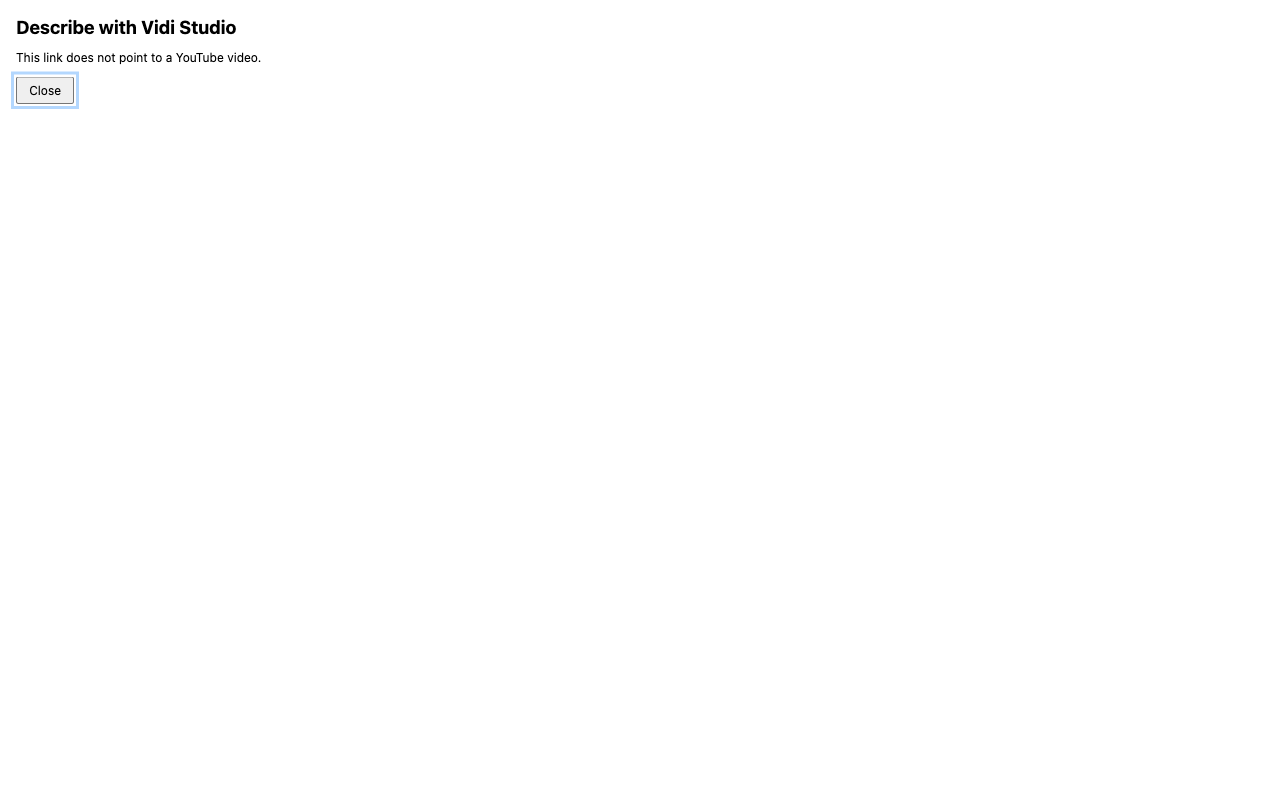
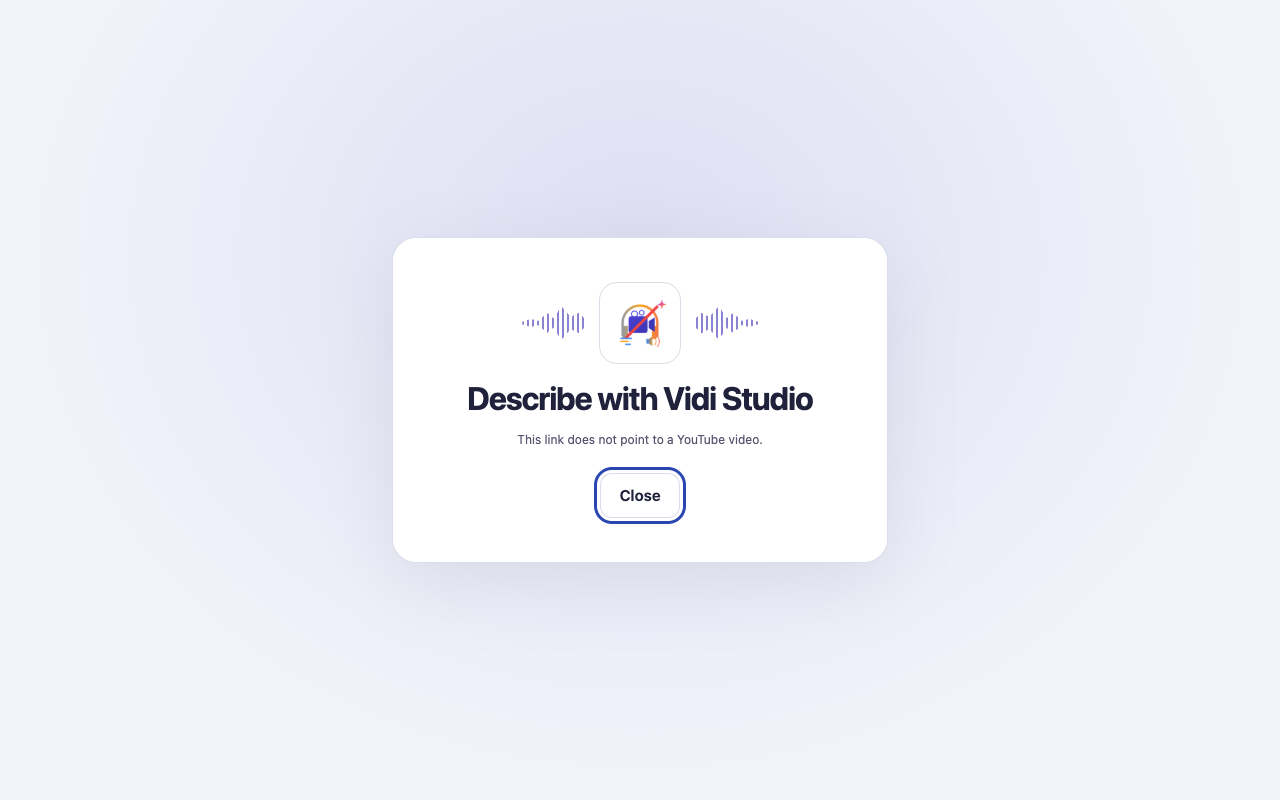
Updated the Extentions

diff --git a/docs/help/projects.html b/docs/help/projects.html
@@ -22,7 +22,7 @@
 <p>The import dialog includes the same Language picker, initially set to the project language. It assigns a label and preserves the supplied text; importing does not translate it. Auto imports are stored in Auto. Importing another result in the same language creates an alternative for review with Keep Both, Replace Selected, and Discard New. The Mac and Windows import dialogs use this same review workflow without an upfront replacement checkbox; validation still runs before any imported result is saved. Both dialogs group Language, Text assets and AD audio separately (with Original audio for YouTube projects). The Language label and dropdown share one row. AD transcript type and Audio type choices appear only after choosing the corresponding file. Audio type offers AD narration audio only and Full AD mix; the latter uses the complete described soundtrack directly. Combine describes its output without assuming English. The dialog shows the project name; detailed format and workflow guidance stays in Help. Imported AD transcripts retain their related source information; imported AD audio and per-segment narration retain their own files. Existing exports remain available.</p>
 
 <h2>Share or open a video in VidiStudio</h2><p>VidiStudio integrates directly into both macOS Finder and Windows File Explorer, allowing you to open video files and create new projects directly from your operating system without opening the app first:</p><ul><li><strong>On macOS:</strong> In Finder, right-click one local video and choose <strong>Describe with Vidi Studio</strong> (enable Vidi Studio under System Settings &gt; General &gt; Login Items &amp; Extensions &gt; Finder Extensions if the item is not shown). You can also open Share and choose VidiStudio, or choose Open With &gt; VidiStudio. In Safari or another browser that supplies the current page URL to macOS sharing, open a supported YouTube video page, choose Share, and choose VidiStudio. If VidiStudio is missing from Share, enable it under Sharing extensions in the same System Settings area.</li><li><strong>On Windows:</strong> In File Explorer, right-click any video file (.mp4, .mov, .m4v, .mkv, .avi, .webm, .wmv) and select <strong>Describe with Vidi Studio</strong> (located under Show more options / Shift+F10 in Windows 11, or directly on the classic context menu) or choose <strong>Open with &gt; Vidi Studio</strong>. You can also share videos to Vidi Studio through the Windows Share flyout. If Explorer integration is not yet active after installation, open Vidi Studio Settings &gt; Storage and tools and click <strong>Register File Explorer context menu</strong>, or run <code>script/register-context-menu.ps1</code>.</li></ul><p>On both platforms, opening or sharing a video immediately creates a new project and launches its editor. If you open or share a video that has already been imported into an existing project, VidiStudio automatically brings that existing project window to the foreground instead of creating a duplicate.</p>
-<p><strong>Describe with Vidi Studio</strong> is available in the Chrome and Edge extension toolbar on Mac and Windows, and in Safari on Mac. Select it on a YouTube video page, or open the context menu on a link on any website and choose <strong>Describe with Vidi Studio</strong>. The context menu uses the clicked link, even on YouTube. A page context menu uses the page URL. Allow the browser to open VidiStudio if prompted. VidiStudio shows a spinning progress indicator and announces “Opening YouTube project…” while it finds or creates the project and opens the editor. If the extension displays a <strong>Describe with Vidi Studio</strong> link, activate it to open the editor. Choose Close or press Escape to dismiss the extension view. If Safari leaves an untitled tab after you cancel its prompt, press Command-W to return to the original page.</p>
+<p><strong>Describe with Vidi Studio</strong> is available in the Chrome and Edge extension toolbar on Mac and Windows, and in Safari on Mac. Select it on a YouTube video page, or open the context menu on a link on any website and choose <strong>Describe with Vidi Studio</strong>. The context menu uses the clicked link, even on YouTube. A page context menu uses the page URL. The extension shows the VidiStudio logo, the YouTube thumbnail beside the video title, and its short link. If YouTube cannot supply the title, the link and both actions remain available. Choose <strong>Describe with Vidi Studio</strong> to continue, then allow the browser to open the desktop app if prompted. Choose <strong>Cancel</strong> or press Escape to dismiss the extension before opening the app. VidiStudio shows a spinning progress indicator and announces “Opening YouTube project…” while it finds or creates the project and opens the editor. For an unsupported link, choose <strong>Close</strong> or press Escape to dismiss the message. If Safari leaves an untitled tab after you cancel its prompt, press Command-W to return to the original page.</p>
 <p>Use a watch, short link, Shorts, live video, or embed URL for one YouTube video. A watch URL can include a timestamp or playlist. Other links, including channels, playlists without a selected video, and local files, show “This link does not point to a YouTube video.” The extension checks the URL on your device and sends only the video link to the installed desktop app. VidiStudio checks video availability during import. Use Finder or File Explorer to open a local video.</p>
 <p>To install the automatically updating Chrome or Edge extension, open <code>chrome://extensions</code> or <code>edge://extensions</code>, enable Developer mode and choose <strong>Load unpacked</strong>. On Mac, choose <code>/Applications/VidiStudio.app/Contents/Resources/BrowserExtension</code> (press Command-Shift-G in the folder picker to enter the path). On Windows, start Vidi Studio once, then choose <code>%LOCALAPPDATA%&#92;VidiStudio&#92;BrowserExtension</code>. If you previously loaded a different folder, remove the old copy after enabling the new one. Ordinary VidiStudio updates keep the installed extension running. When an update includes a new extension version, it becomes available on installation on Mac and the first app launch on Windows. Chrome and Edge check the local version about once a minute while running and load the new version automatically. On Mac, enable <strong>Describe with Vidi Studio</strong> under Safari &gt; Settings &gt; Extensions. Safari’s <strong>Share &gt; VidiStudio</strong> is also available through macOS Sharing extensions.</p>
 <p>On macOS, the Share and Finder extensions update with VidiStudio. If sharing after an update shows a warning about previously opened versions, see <a href="troubleshooting.html#sharing-after-update">macOS sharing after an update</a>.</p>

diff --git a/BrowserExtension/open.css b/BrowserExtension/open.css
@@ -1,8 +1,89 @@
-:root { color-scheme: light dark; font: 100% system-ui, sans-serif; }
-body { min-width: 16rem; margin: 1rem; }
-main { max-width: 30rem; }
-h1 { font-size: 1.15rem; }
-button, a { font: inherit; }
-button { padding: .3rem .7rem; }
-a { margin-inline-end: .8rem; }
-:focus-visible { outline: 3px solid Highlight; outline-offset: 2px; }
+:root {
+  color-scheme: light dark;
+  font: 100%/1.5 Inter, "Segoe UI", system-ui, sans-serif;
+  --page: #f1f3fa;
+  --surface: #fff;
+  --ink: #20213b;
+  --muted: #54566f;
+  --border: #d9dce9;
+  --wash: #f4f4fb;
+  --accent: #4c40ba;
+  --focus: #2a46b1;
+  --on-accent: #fff;
+}
+@media (prefers-color-scheme: dark) {
+  :root {
+    --page: #121322;
+    --surface: #202134;
+    --ink: #f5f4ff;
+    --muted: #c3c2d7;
+    --border: #45465d;
+    --wash: #292a40;
+    --accent: #c5baff;
+    --focus: #d6d1ff;
+    --on-accent: #211945;
+  }
+}
+* { box-sizing: border-box; }
+[hidden] { display: none !important; }
+body {
+  margin: 0; min-height: 100vh; display: grid; place-items: center; padding: 1.5rem;
+  background: radial-gradient(ellipse at 50% 32%, color-mix(in srgb, var(--accent) 12%, var(--page)), var(--page) 67%);
+  color: var(--ink);
+}
+main {
+  width: min(100%, 31rem); padding: clamp(1.35rem, 5vw, 2.75rem);
+  background: var(--surface); border: 1px solid var(--border); border-radius: 1.5rem;
+  box-shadow: 0 1.3rem 4.5rem #13182815; text-align: center;
+}
+.art { display: flex; align-items: center; justify-content: center; gap: .8rem; margin-bottom: 1rem; }
+.art img { flex: none; border-radius: 1.15rem; background: #fff; padding: .25rem; border: 1px solid #dddde8; }
+.wave {
+  width: 4rem; height: 2.1rem; opacity: .65;
+  background: repeating-linear-gradient(90deg, var(--accent) 0 2px, transparent 2px 5px);
+  clip-path: polygon(0 46%, 14% 38%, 25% 44%, 39% 20%, 49% 36%, 61% 0, 76% 32%, 89% 19%, 100% 42%, 100% 58%, 89% 81%, 76% 68%, 61% 100%, 49% 64%, 39% 80%, 25% 56%, 14% 62%, 0 54%);
+}
+.wave:last-child { transform: scaleX(-1); }
+h1 { font-size: clamp(1.5rem, 4vw, 2rem); line-height: 1.15; letter-spacing: -.035em; margin: 0; }
+p { color: var(--muted); margin: .85rem 0 0; }
+.video {
+  display: flex; align-items: center; justify-content: center; gap: .8rem;
+  margin-top: 1.45rem; padding: .85rem; background: var(--wash); border-radius: .85rem; text-align: start;
+}
+.poster { flex: 0 0 29%; max-width: 7.5rem; aspect-ratio: 16 / 9; display: grid; place-items: center; }
+#thumbnail { width: 100%; height: 100%; object-fit: cover; border-radius: .45rem; }
+#thumbnail:not([hidden]) + .play { display: none; }
+.video-info { min-width: 0; }
+.video-label { font-size: .82rem; color: var(--muted); }
+.video strong, #source { display: block; }
+#video-title { margin: .15rem 0; font-size: 1.03rem; line-height: 1.35; overflow-wrap: anywhere; }
+#source { font-size: .86rem; color: var(--muted); overflow-wrap: anywhere; }
+.play { flex: none; display: grid; place-items: center; width: 2rem; height: 1.45rem; border-radius: .45rem; background: #c82c35; }
+.play::after { content: ""; border-block: .3rem solid transparent; border-inline-start: .49rem solid white; }
+.note { font-size: .9rem; margin: .85rem .25rem 0; }
+#error:empty { margin: 0; }
+.actions { display: flex; justify-content: center; flex-wrap: wrap; gap: .65rem; margin-top: 1.55rem; }
+.actions > * {
+  display: inline-flex; justify-content: center; align-items: center; min-height: 2.8rem; padding: .6rem 1.15rem;
+  font: inherit; font-weight: 650; font-size: .95rem; line-height: 1.3; border-radius: .75rem;
+  border: 1px solid var(--border); background: var(--surface); color: var(--ink); text-decoration: none; cursor: pointer;
+}
+#launch { background: var(--accent); color: var(--on-accent); border-color: var(--accent); }
+.actions > :hover { box-shadow: inset 0 0 0 2px currentColor; }
+:focus-visible { outline: 3px solid var(--focus); outline-offset: 3px; }
+.popup { width: 22rem; }
+.popup body { min-height: 0; padding: 0; }
+.popup main { padding: 1.4rem; border: 0; border-radius: 0; box-shadow: none; }
+.popup .actions { gap: .55rem; }
+@media (forced-colors: active) {
+  #launch, .actions button { border: 1px solid ButtonText; }
+  :focus-visible { outline-color: Highlight; }
+}
+
+@media (max-height: 620px) {
+  body { padding: .85rem; }
+  main { padding-block: 1.35rem; }
+  .art { margin-bottom: .7rem; }
+  .art img { width: 4rem; height: 4rem; }
+  .video, .actions { margin-top: 1rem; }
+}

diff --git a/BrowserExtension/open.js b/BrowserExtension/open.js
@@ -1,4 +1,5 @@
 const fromMenu = location.hash.length > 0;
+if (!fromMenu) document.documentElement.classList.add("popup");
 const closeButton = document.getElementById("close");
 async function dismiss() {
   if (fromMenu) {
@@ -15,6 +16,28 @@ document.addEventListener("keydown", event => {
     dismiss();
   }
 });
+
+async function showVideoTitle(source) {
+  const title = document.getElementById("video-title");
+  const endpoint = new URL("https://www.youtube.com/oembed");
+  endpoint.searchParams.set("url", source);
+  endpoint.searchParams.set("format", "json");
+  try {
+    const response = await fetch(endpoint, {
+      credentials: "omit", referrerPolicy: "no-referrer", signal: AbortSignal.timeout(5000)
+    });
+    if (response.ok) {
+      const metadata = await response.json();
+      if (typeof metadata.title === "string" && metadata.title.trim()) {
+        title.textContent = metadata.title.trim();
+        return;
+      }
+    }
+  } catch {
+    // Project opening remains available when YouTube cannot supply a title.
+  }
+  title.textContent = "Video title unavailable";
+}
 
 async function openVideo() {
   let id;
@@ -33,10 +56,14 @@ async function openVideo() {
   const link = document.getElementById("launch");
   const source = "https://www.youtube.com/watch?v=" + id;
   link.href = "vidistudio://share?kind=youtube&source=" + encodeURIComponent(source);
+  document.getElementById("source").textContent = "youtu.be/" + id;
+  document.getElementById("details").hidden = false;
+  closeButton.textContent = "Cancel";
   link.hidden = false;
   link.focus();
-  // A real link remains available when the browser requires a fresh user gesture.
-  // Give the browser a chance to paint the action before the external-app prompt.
-  requestAnimationFrame(() => requestAnimationFrame(() => link.click()));
+  const thumbnail = document.getElementById("thumbnail");
+  thumbnail.addEventListener("load", () => { thumbnail.hidden = false; }, {once: true});
+  thumbnail.src = "https://i.ytimg.com/vi/" + id + "/mqdefault.jpg";
+  await showVideoTitle(source);
 }
 openVideo();

diff --git a/BrowserExtension/open.html b/BrowserExtension/open.html
@@ -4,14 +4,42 @@
   <meta charset="utf-8">
   <meta name="viewport" content="width=device-width, initial-scale=1">
   <title>Describe with Vidi Studio</title>
+  <link rel="icon" href="icons/32.png">
   <link rel="stylesheet" href="open.css">
   <script src="youtube.js" defer></script>
   <script src="open.js" defer></script>
 </head>
-<body><main>
-  <h1>Describe with Vidi Studio</h1>
-  <p id="error" role="alert" aria-atomic="true"></p>
-  <a id="launch" hidden>Describe with Vidi Studio</a>
-  <button type="button" id="close">Close</button>
-</main></body>
+<body>
+  <main aria-labelledby="title">
+    <header>
+      <div class="art" aria-hidden="true">
+        <span class="wave"></span>
+        <img src="icons/128.png" width="82" height="82" alt="">
+        <span class="wave"></span>
+      </div>
+      <h1 id="title">Describe with Vidi Studio</h1>
+    </header>
+    <section id="details" aria-label="Selected video" hidden>
+      <p>Open this video in the desktop app to work on its transcript, captions, or audio description.</p>
+      <div class="video">
+        <div class="poster">
+          <img id="thumbnail" alt="YouTube video thumbnail" width="320" height="180"
+               crossorigin="anonymous" referrerpolicy="no-referrer" hidden>
+          <span class="play" aria-hidden="true"></span>
+        </div>
+        <div class="video-info">
+          <span class="video-label">YouTube video</span>
+          <strong id="video-title" dir="auto" aria-live="polite">Loading video title…</strong>
+          <span id="source" dir="ltr"></span>
+        </div>
+      </div>
+      <p class="note">VidiStudio opens the existing project for this video or creates a new one.</p>
+    </section>
+    <p id="error" role="alert" aria-atomic="true"></p>
+    <div class="actions">
+      <a id="launch" hidden>Describe with Vidi Studio</a>
+      <button type="button" id="close">Close</button>
+    </div>
+  </main>
+</body>
 </html>

diff --git a/docs/help/privacy.html b/docs/help/privacy.html
@@ -27,4 +27,4 @@
 
 <h2 id="elevenlabs-privacy">ElevenLabs narration</h2><p>Generating ElevenLabs narration sends the selected description text, model, voice, language and supported adjustments to ElevenLabs using your own key and account allowance. Account terms and retention policies apply. Keys remain in the operating system credential store, outside project folders and settings JSON. Plan information and voice catalogs are read from ElevenLabs; public voice additions occur only after Add &amp; Select confirmation. Supplied demos download without your API key in the recording request and never synthesize speech. Catalogs and demos are cached locally outside projects and separated by credential. Deleting a key clears its local cache, not the remote account or voices previously added there. Summary playback uses only local speech engines.</p>
 
-<h2 id="browser-sharing">Browser sharing</h2><p>Describe with Vidi Studio reads the current page or the link you choose when you invoke it. It checks the URL locally and sends the YouTube video link to the installed desktop app. The extension stores no browsing history and sends no analytics. The desktop-managed Chrome and Edge edition checks its local extension files for updates.</p>
+<h2 id="browser-sharing">Browser sharing</h2><p>Describe with Vidi Studio reads the current page or the link you choose when you invoke it. It checks the URL locally and sends the YouTube video link to the installed desktop app. For a valid video, the extension requests its public title and thumbnail from YouTube using the selected video ID, without cookies or the referring page address. The extension stores no browsing history and sends no analytics. The desktop-managed Chrome and Edge edition checks its local extension files for updates.</p>

diff --git a/PROGRESS.md b/PROGRESS.md
@@ -3816,3 +3816,21 @@ Both desktop apps display and announce “Opening YouTube project…” when a b
 On the final installed Mac build, an on-screen window probe observed the progress panel during a cold protocol launch that created “Me at the zoo” and again during an immediate reopen with that editor frontmost. Both runs cleared the indicator with the editor visible and the library contained one matching project. The cold-launch test exposed an initial reachability race. The import now waits for the first YouTube reachability result; a native regression covers both a completed initial check and an offline result. The Windows accessibility probe confirmed the same two indicator transitions for “GANGNAM STYLE”. These tests also verified the status disappears; live screen-reader speech remains untested.
 
 Installed Mac 1.0.346 (build 346) and Windows ARM64 1.0.346.0. Mac signature continuity, canonical entitlements and single PlugInKit registrations passed for Safari, Share and Finder, team LLVWNNUV26. Spotlight and LaunchServices showed /Applications/VidiStudio.app. Windows reported one registered package and one runnable app. Packaged Windows GallerySettingsOnly and DialogsOnly passed. Shared browser, Swift, Safari Share plain-text and Windows fixtures passed (30 URL cases). Mac and Windows menu/UI parity checks passed, as did the packaged Mac engine pipeline. Canonical desktop Help was regenerated and synchronized. Local website lint, production build, guide search and navigation passed. Website changes remain unpublished. No browser store submission.
+
+## 2026-11-17 — Describe with Vidi Studio confirmation and YouTube titles (1.0.348)
+
+The shared extension page and toolbar popup display the application logo, the selected video’s title and short link, and a centered Describe with Vidi Studio action and Cancel. The primary action retains the original descriptive wording and sends the canonical URL only when activated. The existing unsupported-link message, Close and Escape remain accessible. Valid links request only the public video title from YouTube oEmbed with credentials and referrer omitted. A failed or offline title request leaves both actions available. The manifest adds no permissions.
+
+The regular Mac Chrome and Edge profiles, enabled Safari toolbar, and regular Windows Chrome and Edge profiles all displayed the actual public title “How we organised India's First Inclusive Dandiya Night | Dil Se Abled” for ebYDpoKxmEA. Native accessibility inspection verified the link, short URL, full title and Cancel. Additional Chromium checks covered actual rendering in light/dark, the logo, centering, a 320-pixel viewport, canonical protocol URL and invalid feedback. The invalid-link store screenshot was refreshed. Live VoiceOver and NVDA speech were not tested for this release.
+
+Both desktops and the independent browser release are 1.0.348. The signed Mac app, Safari, native Share and Finder bundles passed signing continuity and single PlugInKit registration checks (build 348, team LLVWNNUV26). Spotlight and LaunchServices each showed only /Applications/VidiStudio.app. Windows ARM64 1.0.348.0 supplies the same update folder to its existing Chromium profiles. Checked the two stable store ZIPs and the Windows embedded ZIP against the shared UI resources. Packaged Mac engine regression, 30 shared URL fixtures, Safari Share provider, browser action tests, menu/UI parity, Help generation, website lint/build and guide navigation passed. Both desktop Help books and the online guide/privacy sources describe title retrieval, confirmation and cancellation. Website changes are unpublished. No store submission.
+
+Final live handoff checks passed. Chrome on Mac displayed the published title for the Andy video, accepted the regular Open VidiStudio.app prompt, and opened the existing Andy Transcript editor. An actual Edge link context menu on Windows displayed the Dandiya title; choosing Describe with Vidi Studio and accepting the browser prompt opened its existing Transcript editor without adding any project folder. Live update tests on installed Chrome and Edge binaries on both platforms advanced a running older extension to 1.0.348 with the same ID and original tab open. Windows reported one registered 1.0.348.0 package and one runnable app; packaged GallerySettingsOnly and DialogsOnly passed.
+
+## 2026-11-17 — YouTube thumbnails in the browser extension (1.0.349)
+
+Describe with Vidi Studio now displays the selected video's YouTube thumbnail beside its title. The toolbar and link context menu use the same confirmation view. The existing wording, primary action, Cancel button and keyboard behavior are preserved. A failed thumbnail request leaves the play icon visible. Thumbnail requests use the validated video ID and omit credentials and the referrer. The manifest permissions are unchanged.
+
+Verified the actual thumbnail and title for ebYDpoKxmEA in the regular Chrome and Edge profiles on macOS and Windows ARM64, and the enabled Safari toolbar on macOS. Chromium layout checks covered light and dark appearance, 320-pixel width, a blocked image, invalid input, and the canonical handoff URL. Live updater tests in both Chromium browsers on each OS retained the same extension ID and the open tab. Live VoiceOver and NVDA speech were not tested for this change.
+
+Browser release 1.0.349 is in dist/browser-extensions/Describe-with-Vidi-Studio-Chrome.zip and Describe-with-Vidi-Studio-Edge.zip. Both store archives, the packaged Windows resources and the embedded Safari extension were checked against the shared source. The single installed Mac app is 1.0.349 (349). Safari, Share and Finder passed signing continuity and registration checks under /Applications/VidiStudio.app, team LLVWNNUV26. Windows has one registered ARM64 package at 1.0.349.0 and one runnable app in the installation audit. Packaged engine checks, Windows gallery/settings and dialog smoke tests, browser tests, 30 cross-platform URL fixtures, native Safari Share tests, and desktop menu/UI parity checks passed. Generated both desktop Help books and checked the website build and local guide search/navigation. Website edits are unpublished. No store submission.

diff --git a/docs/BROWSER_EXTENSION_STORES.md b/docs/BROWSER_EXTENSION_STORES.md
@@ -12,7 +12,7 @@
 
 **Single purpose** Open the YouTube video the user selects in the installed desktop editor.
 
-**Permissions and privacy** The activeTab permission reads the active page URL when the user invokes the toolbar action. The contextMenus permission adds the page and link commands. Link validation runs locally. The extension hands the canonical YouTube video URL to the operating system using the registered VidiStudio protocol. It stores no history or credentials, injects no page scripts, loads no remote code, and sends no analytics. The desktop app handles import and video availability.
+**Permissions and privacy** The activeTab permission reads the active page URL when the user invokes the toolbar action. The contextMenus permission adds the page and link commands. Link validation runs locally. For valid videos, the panel requests the title from YouTube’s public oEmbed endpoint using the canonical link, and loads the selected video’s thumbnail from i.ytimg.com. Both requests omit cookies and the referrer. The extension hands the canonical YouTube video URL to the operating system using the registered VidiStudio protocol. It stores no history or credentials, injects no page scripts, loads no remote code, and sends no analytics. The desktop app handles import and video availability.
 
 ## Packaging and reviewer instructions
 
@@ -20,6 +20,6 @@ Run `python3 script/package_browser_extension.py` from the Mac checkout. The cur
 
 The desktop app also delivers an unpacked edition for local automatic updates. Its additional alarms permission schedules a local version check. See the Projects Help topic for the app-managed folders. Store ZIPs retain their store update mechanism.
 
-With the desktop app installed, use Describe with Vidi Studio on a public video. Accept the external-app prompt and verify the editor shows that video. Repeat from a link on another site to verify the same project reopens. Repeat with a link to a channel or an unrelated site to hear the invalid-link message. Press Escape or choose Close. On a valid video, declining the browser prompt should leave the desktop library untouched.
+With the desktop app installed, use Describe with Vidi Studio on a public video. Check the selected video title and link, choose Describe with Vidi Studio in the centered panel and accept the external-app prompt and verify the editor shows that video. Repeat from a link on another site to verify the same project reopens. Repeat with a link to a channel or an unrelated site to hear the invalid-link message. Press Escape or choose Close. On a valid video, Cancel dismisses the panel before it sends a request to the desktop. Declining the subsequent browser prompt also leaves the desktop library untouched.
 
 The store screenshot is in [browser-extension-store/invalid-link.png](browser-extension-store/invalid-link.png). It shows the actual extension feedback and Close control. Use the 128-pixel PNG from the extension for the store icon. The product privacy page is [VidiStudio Privacy](https://vidistudio.varunmanojkumar.in/privacy).
